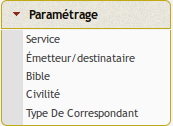
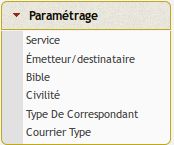
Mise à jour suite aux modifications de la version 3.3.0

Changed region(s): [[0.0, 0.0, 1.0, 1.0], [0.1445, 0.8571, 0.8092, 0.9524], [0.0578, 0.0714, 0.1156, 0.119]]

diff --git a/source/manuel_utilisateur/parametrage/index.rst b/source/manuel_utilisateur/parametrage/index.rst
@@ -123,10 +123,8 @@ La bible
 
 (:menuselection:`Paramétrage --> Bible`)
 
-La bible sert à compléter l'objet d'un courrier
-
-Il est proposé de décrire dans ce paragraphe de décrire la saisie de la bible dans le menu paramètrage
-
+La bible sert à compléter l'objet d'un courrier. Il est donc possible de stocker
+des phrases réutilisables à l'identique pour chaque courrier.
 
 Les textes bibles sont listés dans le formulaire suivant
 
@@ -157,7 +155,7 @@ La civilité
 La civilité correspond au titre de civilité d'une personne. Elle est utilisée
 dans l'application lors de la saisie de correspondants.
 
-L'écran suivant permet de lister les différentes civilités ainsi que les 
+L'écran suivant permet de lister les différentes civilités ainsi que les actions
 possibles sur ces dernières.
 
 .. image:: tab_civilite.png
@@ -183,7 +181,7 @@ Le type de correspondant permet de catégoriser une personne. Il est utilisé
 dans l'application lors de la saisie de correspondants.
 
 L'écran suivant permet de lister les différents types de correspondant ainsi 
-que les possibles sur ces derniers.
+que les actions possibles sur ces derniers.
 
 .. image:: tab_type_correspondant.png
 
@@ -196,6 +194,32 @@ Il est saisi :
 
 - le libellé du type de correspondant
 
+
+
+.. _courrier_type:
+
+================
+Le courrier type
+================
+
+(:menuselection:`Paramétrage --> Courrier type`)
+
+Le courrier type permet de catégoriser un courrier. Il est utilisé
+dans l'application lors de la saisie des courriers et n'est pas obligatoire.
+
+L'écran suivant permet de lister les différents types de courrier ainsi 
+que les actions possibles sur ces derniers.
+
+.. image:: tab_type_correspondant.png
+
+Il est possible de créer ou modifier un type de correspondant dans le 
+formulaire suivant.
+
+.. image:: form_type_correspondant.png
+        
+Il est saisi :
+
+- le libellé du type de correspondant
 
 
 *******************
@@ -233,6 +257,17 @@ Voici le descriptif de ces paramètres :
      - Par défaut : "true".
        Utilisation du courrier départ.
 
+   * - .. _om_parametre_service_tache:
+
+       "service_tache"
+     - Par défaut : "1".
+       Indique si les tâches peuvent être affectées uniquement aux services 
+       enfants du service qui traite le courrier (1) ou à tous les services 
+       de la commune (0).
+
+
+service_tache
+
 
 
 .. _parametre_dyn_var_inc:
@@ -247,7 +282,7 @@ non destinées à être modifiées régulièrement. Il est accessible via le
 système de fichiers directement sur le serveur. Il n'est pas possible de 
 modifier ce paramétrage via l'interface de l'application.
 
-paramètres de dyn/var.inc
+paramètres de `dyn/var.inc`
 
 .. code-block:: php
 
@@ -267,10 +302,74 @@ paramètres de dyn/var.inc
        'T&eacute;l&eacute;gramme',
    );
 
-   // type dans objet courrier
-   $select_type = array('', 's');
-   $select_typelib = array('Votre Choix', 'signale');
-   
+   // mode de stockage des fichiers binaires
+   $dossierparcentaine = 1;
+
    ...
    ?>             
 
+
+
+
+.. _parametre_dyn_config_inc_php:
+
+***********************************************************
+Paramètres spécifiques dans le fichier `dyn/config.inc.php`
+***********************************************************
+
+Ce paramétrage est réservé à l'administrateur technique de l'application.
+Il permet de configurer des options critiques ou des listes de références
+non destinées à être modifiées régulièrement. Il est accessible via le 
+système de fichiers directement sur le serveur. Il n'est pas possible de 
+modifier ce paramétrage via l'interface de l'application.
+
+paramètres de `dyn/config.inc.php`
+
+.. code-block:: php
+
+   <?php
+   ...
+
+   /**
+    * Configuration de la notification par mail des nouvelles taches attribuees aux utilisateurs du service concerne
+    * Default : false
+    */
+   $config['notification_email'] = false;
+  
+   /**
+    * Mail de notification
+    */
+   $config['notification_email_title']=utf8_decode("OpenCourrier [ville] : une nouvelle tâche vous a été affectée");
+   $config['notification_email_corps']=utf8_decode("Bonjour,
+   <br/><br/>
+   Une nouvelle tâche vous a été affectée sur l'application openCourrier.<br/>
+   Vous pouvez la consulter en suivant le lien présenté ci-dessous :
+   <br/><br/>
+   <a href='http://demo.openmairie.org/opencourrier/scr/form.php?obj=tache&idx=[id_task]'>
+   Lien vers la tache.</a>
+   <br/><br/>
+   Cordialement,<br/>
+   L'administrateur de openCourrier, [ville].");
+
+   /**
+    * Configuration du nombre de colonnes sur le tableau de bord.
+    */
+   $config['dashboard_nb_column'] = 2;
+
+   /**
+    * Option pour la gestion du scan automatique
+    * Cette option permet d'activer lors de l'ajout d'un courrier la récupération 
+    * dans le répertoire ../scan/<ID_COLLECTIVTE>/<ID_UTILISATEUR>/ d'un fichier
+    * PDF qui aurait été préalablement scanné et déposé dans ce répertoire. 
+    * Lors de l'enregistrement du courrier ce fichier est rattaché au courrier
+    * via l'onglet dossier et le numéro de registre est inscrit en rouge directement
+    * dans le PDF. Ce fichier est alors supprimé.
+    * Valeurs disponibles : 
+    *  - true => Option activée
+    *  - false => Option désactivée
+    * Default : $config['option_scanpdf'] = true;
+    */
+   $config['option_scanpdf'] = true;
+   
+   ...
+   ?>             

diff --git a/source/manuel_utilisateur/preambule/index.rst b/source/manuel_utilisateur/preambule/index.rst
@@ -8,18 +8,22 @@ Préambule
 
 openCourrier est un logiciel qui permet de :
 
-- gérer le courrier entrant dans une collectivité
+- gérer le courrier entrant/sortant dans une organisation.
 
-- gérer un courrier sortant
+- lier des courriers entre eux.
 
-- lier des courriers entrants et/ou sortants
+- affecter un courrier à UN service de traitement.
 
-- affecter un courrier à UN service de traitement
+- associer des documents (courriers numérisés, courriers départ, rapport 
+  d'intervention) pour constituer un dossier depuis un courrier.
 
-- numériser le courrier arrivé (à la volée dans un répertoire) et en l'associant à un numéro de registre inscrit automatiquement sur le courrier scanné   
+- associer le courrier numérisé à la volée dans un répertoire en lui inscrivant 
+  le numéro de registre et en l'associant au dossier du courrier.
 
-- affecter une ou plusieurs tâches aux services dépendant du service de traitement : les tâches peuvent être suivies jusqu'à ce qu'elles soient soldées par les services
+- affecter une ou plusieurs tâches à des services (notification de ces services
+  par email) dépendant ou non du service de traitement : les tâches peuvent
+  ainsi être suivies jusqu'à ce qu'elles soient soldées par les services.
 
-- associer des documents (courriers départ, rapport d'intervention) dans un dossier.
+
 
    

diff --git a/source/manuel_utilisateur/courrier/index.rst b/source/manuel_utilisateur/courrier/index.rst
@@ -11,6 +11,12 @@ Ce chapitre vous propose d'utiliser la gestion de courrier.
 .. contents::
 
 
+Les éléments permettant la gestion du courrier sont disponibles dans la rubrique 
+(:menuselection:`Courrier`) du menu.
+
+.. image:: menu_courrier.png
+
+
 ******************
 Saisir un courrier
 ******************
